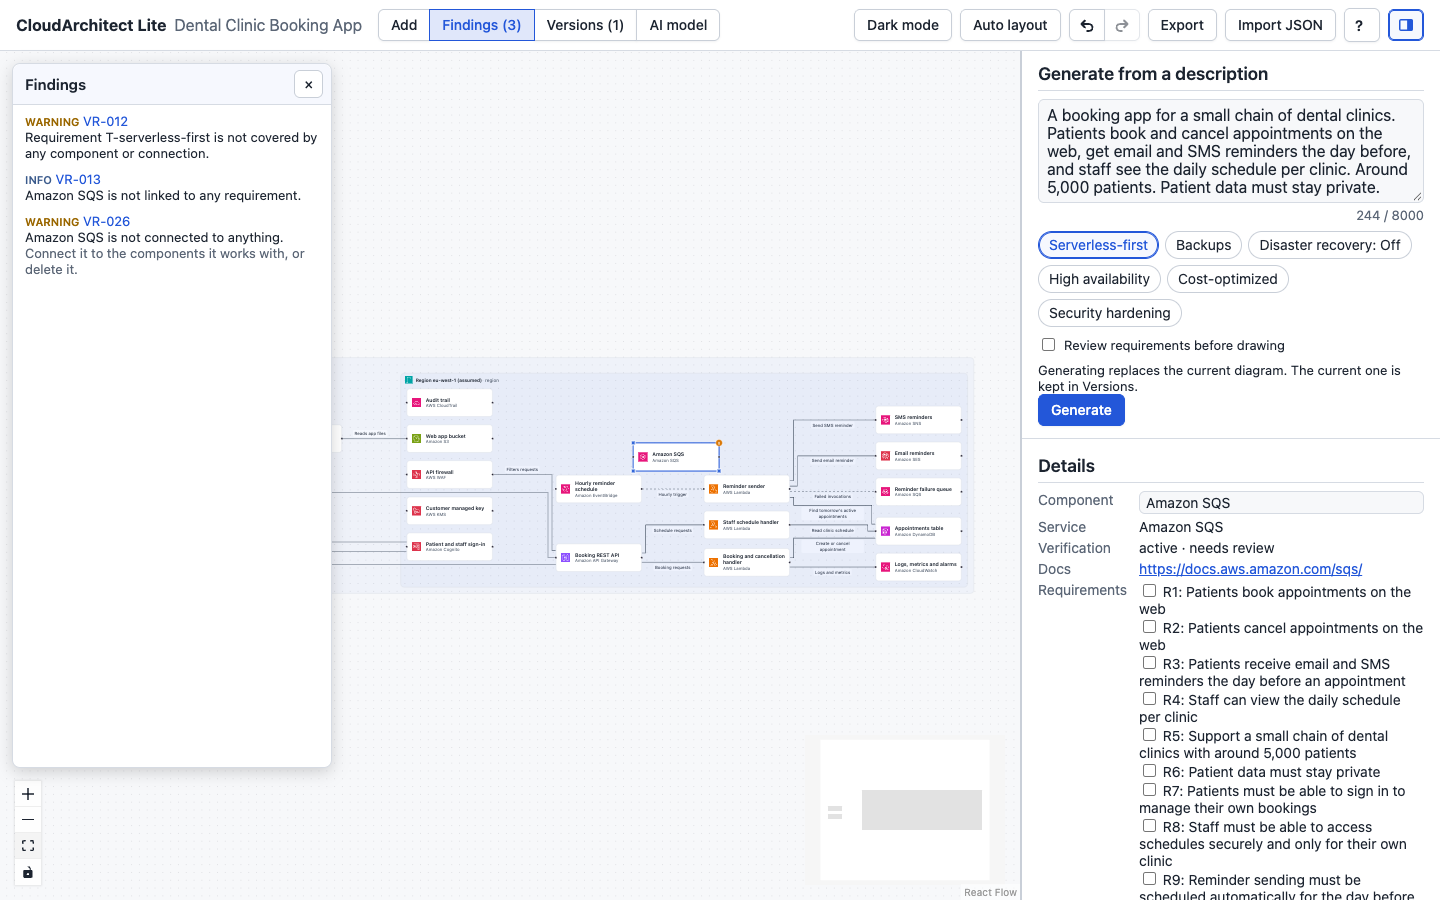
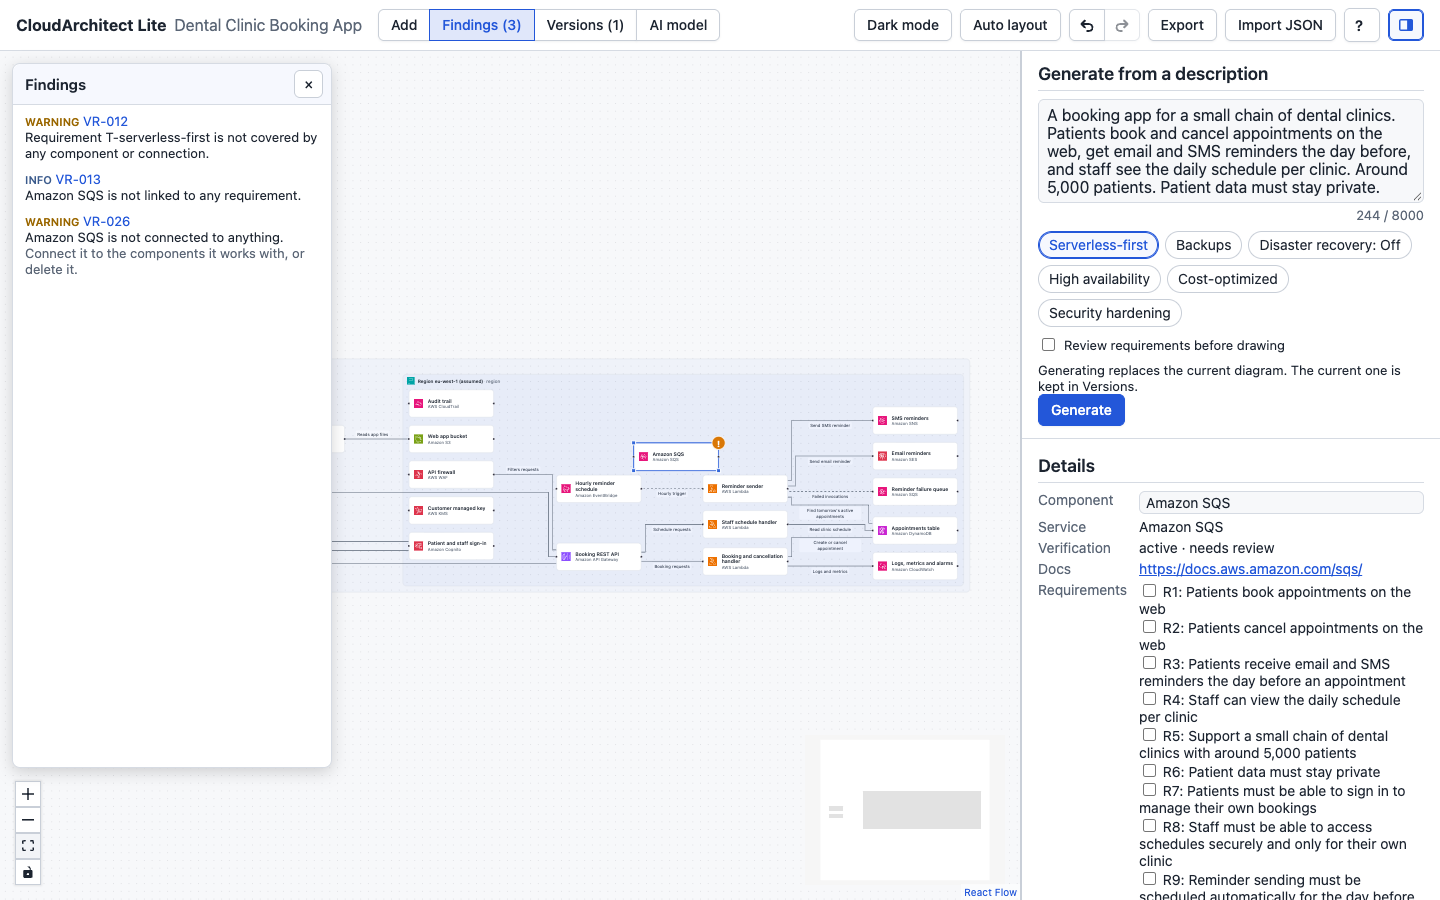
Editor: finding markers stay readable when the canvas is zoomed out
Markers sat inside the components and shrank with them: on a whole-diagram
view they were about 5 pixels wide. MarkScale sets --mark-scale from the
zoom so a marker never drops below 14 screen pixels. Manual screenshots
regenerated; the finding-marker caption now says warning.

diff --git a/apps/web/src/nodes.tsx b/apps/web/src/nodes.tsx
@@ -1,6 +1,14 @@
-import { Handle, NodeResizer, Position, type NodeProps } from '@xyflow/react';
+import {
+  Handle,
+  NodeResizer,
+  Position,
+  useOptionsStore,
+  useViewportStore,
+  type NodeProps,
+} from '@xyflow/react';
+import { useEffect } from 'react';
 import { MIN_CONTAINER_SIZE, MIN_NODE_SIZE } from './layout';
-import type { Mark } from './findingMarks';
+import { markScale, type Mark } from './findingMarks';
 import type { ContainerNodeData, ServiceNodeData } from './layout';
 
 export type ResizeRect = { x: number; y: number; width: number; height: number };
@@ -18,6 +26,19 @@ export type EditableData = {
   mark?: Mark;
   onMark?: (id: string) => void;
 };
+
+/**
+ * Keeps finding markers readable when the canvas is zoomed out, by setting `--mark-scale` on the
+ * flow. Render it inside `<ReactFlow>`.
+ */
+export function MarkScale() {
+  const zoom = useViewportStore((s) => s.transform[2]);
+  const flow = useOptionsStore((s) => s.domNode);
+  useEffect(() => {
+    flow?.style.setProperty('--mark-scale', String(markScale(zoom)));
+  }, [flow, zoom]);
+  return null;
+}
 
 /** A corner marker for a component's findings: red !, amber !, or blue i, worst first. */
 export function FindingMark({ mark, onClick }: { mark: Mark; onClick?: () => void }) {

diff --git a/apps/web/src/findingMarks.test.tsx b/apps/web/src/findingMarks.test.tsx
@@ -1,7 +1,7 @@
 import type { Finding } from '@cloudarchitect/domain';
 import { renderToStaticMarkup } from 'react-dom/server';
 import { describe, expect, it } from 'vitest';
-import { findingMarks } from './findingMarks';
+import { findingMarks, MARK_SIZE, markScale } from './findingMarks';
 import { FindingMark } from './nodes';
 
 const f = (severity: Finding['severity'], ruleId: string, over: Partial<Finding> = {}): Finding =>
@@ -60,5 +60,18 @@ describe('FindingMark', () => {
     );
     expect(html).toContain('aria-label="2 findings: a; b"');
     expect(html).toContain('>i<');
+  });
+});
+
+describe('markScale', () => {
+  it('leaves the marker as drawn at 100% zoom and closer', () => {
+    expect(markScale(1)).toBe(1);
+    expect(markScale(2)).toBe(1);
+  });
+
+  it('keeps the marker at least 14 screen pixels when zoomed out', () => {
+    for (const zoom of [0.7, 0.5, 0.37, 0.2]) {
+      expect(MARK_SIZE * markScale(zoom) * zoom).toBeCloseTo(14);
+    }
   });
 });

diff --git a/apps/web/src/App.tsx b/apps/web/src/App.tsx
@@ -58,7 +58,7 @@ import {
   type IconState,
   type IconUrls,
 } from './icons';
-import { nodeTypes, type EditableData, type ResizeRect } from './nodes';
+import { MarkScale, nodeTypes, type EditableData, type ResizeRect } from './nodes';
 import { EMPTY_HISTORY, record, redo, undo, type History } from './history';
 import { Details, type Selection } from './Details';
 import { AddPanel, DRAG_MIME, type AddItem } from './AddPanel';
@@ -1339,6 +1339,7 @@ export function App() {
             <Background />
             <MiniMap pannable zoomable />
             <Controls />
+            <MarkScale />
           </ReactFlow>
           {openWindows.length > 0 && (
             <div className="tool-windows">

diff --git a/apps/web/src/findingMarks.ts b/apps/web/src/findingMarks.ts
@@ -32,3 +32,16 @@ export function findingMarks(
   }
   return marks;
 }
+
+/** The marker's drawn size in pixels at 100% zoom (`.mark` in styles.css). */
+export const MARK_SIZE = 18;
+/** The smallest the marker gets on screen, however far out the canvas is zoomed. */
+const MIN_SCREEN_SIZE = 14;
+
+/**
+ * How much to enlarge the marker at a canvas zoom level. Markers live inside the components, so
+ * they shrink with them; without this a whole-diagram view draws them about 5 pixels wide.
+ */
+export function markScale(zoom: number): number {
+  return Math.max(1, MIN_SCREEN_SIZE / MARK_SIZE / zoom);
+}

diff --git a/apps/web/src/styles.css b/apps/web/src/styles.css
@@ -809,6 +809,8 @@ table.models caption {
   text-align: center;
   color: #fff;
   box-shadow: var(--shadow-sm);
+  /* Set by MarkScale so the marker stays readable when zoomed out; it grows around the corner. */
+  scale: var(--mark-scale, 1);
 }
 button.mark-error,
 button.mark-error:hover {

diff --git a/CHANGELOG.md b/CHANGELOG.md
@@ -8,7 +8,7 @@ All notable changes are recorded here. The format follows [Keep a Changelog](htt
 
 - [User manual](docs/manual/README.md): an illustrated guide to everything the app does, from install to export, with every rule explained. Its screenshots are generated from the running app (`pnpm --filter @cloudarchitect/e2e manual`), and a **?** button in the toolbar opens it.
 - Validation rule VR-026 (warning): a component that is not connected to anything. Baseline services such as CloudWatch are exempt, and a design with one component is not flagged. It is shown in the editor only and not sent to the AI repair turn, so generation is unchanged.
-- Editor: a component with findings shows a marker on its corner (red for an error, amber for a warning, blue for info). Hovering lists the findings; clicking opens the Findings window with them highlighted.
+- Editor: a component with findings shows a marker on its corner (red for an error, amber for a warning, blue for info) that stays readable when the canvas is zoomed out. Hovering lists the findings; clicking opens the Findings window with them highlighted.
 - Edit by hand: add services, outside actors and containers from the Add panel; connect, re-plug and edit connectors; link components to requirements; move components into and out of containers; delete; undo and redo (Cmd/Ctrl+Z, Cmd/Ctrl+Shift+Z). Findings update after every edit.
 - Edit by hand: a Settings section in Details sets, changes and removes catalog settings (encryption, authorizer, dead-letter queue, Multi-AZ, backup and more) on the selected component or connector, with fixed choices where the catalog has them (encryption: KMS or AWS-managed). Findings update as you edit, and undo works.
 - A browser end-to-end test runs the app in Docker on every pull request, with recorded AI responses instead of paid calls.

diff --git a/docs/manual/05-findings.md b/docs/manual/05-findings.md
@@ -10,10 +10,10 @@ they find is a **finding**:
 ## Markers on components
 
 A component with findings has a marker on its top-right corner, coloured by its worst finding:
-red **!** for an error, amber **!** for a warning, blue **i** for info. Hover over it to read the
+red **!** for an error, amber **!** for a warning, blue **i** for info. It stays the same size on screen when you zoom out, so you can spot it on a whole diagram. Hover over it to read the
 findings. Click it to open the Findings window with that component's findings highlighted.
 
-![A component with an info marker](images/finding-marker.png)
+![A component with a warning marker](images/finding-marker.png)
 
 ## The Findings window
 
